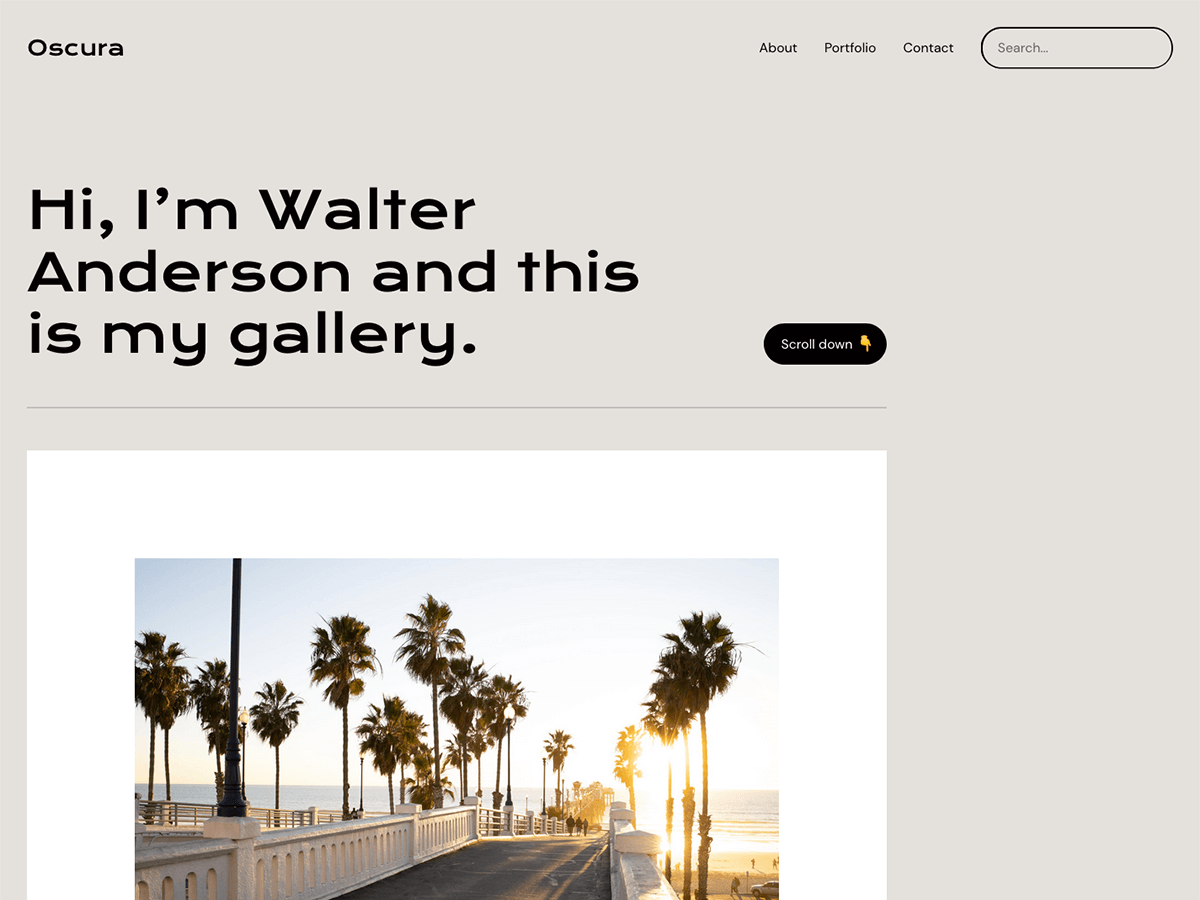
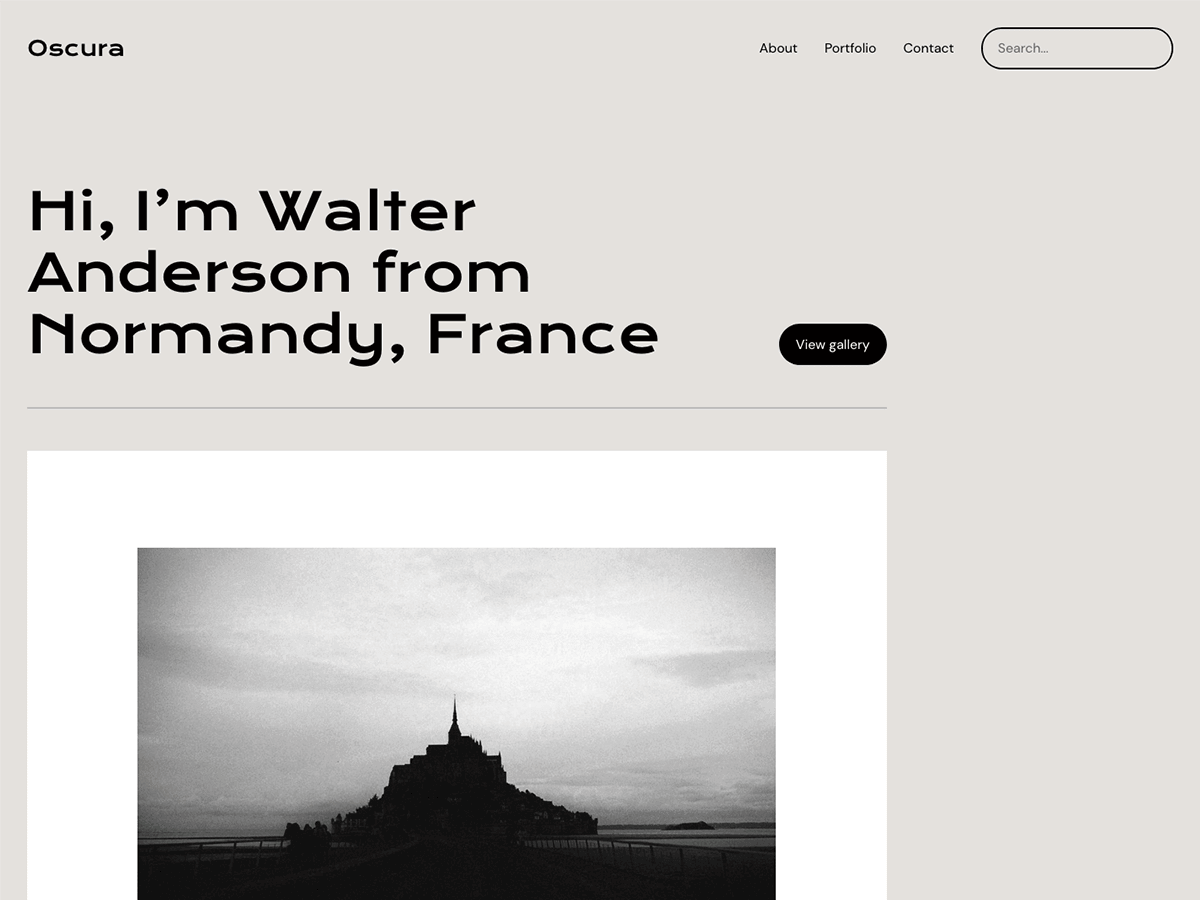
Update screenshot image and some attributions in readme.txt

diff --git a/style.css b/style.css
@@ -2,7 +2,7 @@
 Theme Name: Oscura
 Theme URI: https://github.com/alexandrebuffet/oscura
 Author: Alexandre Buffet
-Author URI: https://www.alexandrebuffet.fr/
+Author URI: https://www.alexandrebuffet.com
 Description: Oscura is an elegant and modern block-based theme especially designed for photographers, artists and all other creatives who want to showcase their work.
 Requires at least: 5.9
 Tested up to: 5.9

diff --git a/README.md b/README.md
@@ -1,10 +1,10 @@
 # Oscura
 
-Oscura is an elegant and modern block-based theme especially designed for photographers, artists and all other creatives who want to showcase their work. See the Oscura theme in action at [themes.alexandrebuffet.fr/oscura](https://themes.alexandrebuffet.fr/oscura).
+Oscura is an elegant and modern block-based theme especially designed for photographers, artists and all other creatives who want to showcase their work. See the Oscura theme in action at [alexandrebuffet.com/oscura](https://alexandrebuffet.com/oscura).
 
-![Oscura for WordPress](https://user-images.githubusercontent.com/43843473/155427126-2cbe9f6d-48b2-45bd-b974-c95f36f59175.jpg)
+![Oscura for WordPress](https://user-images.githubusercontent.com/43843473/157986570-dbc909c8-6316-48ee-8a53-012118562a80.jpg)
 
-![Oscura moodboard](https://user-images.githubusercontent.com/43843473/155427036-d128225b-3412-4a15-8d16-41e5e98e4199.jpg)
+![Oscura moodboard](https://user-images.githubusercontent.com/43843473/157986569-15dec7bc-5a51-472b-b5db-3912465eb401.jpg)
 
 Download the latest stable release: [oscura-1.0.0.zip](https://github.com/alexandrebuffet/oscura/releases/download/v1.0.0/oscura-1.0.0.zip)
 
@@ -38,7 +38,7 @@ Oscura adheres to the [WordPress coding standards](https://developer.wordpress.o
 
 ## Resources
 
-- [Oscura website](https://themes.alexandrebuffet.fr/oscura)
+- [Oscura website](https://alexandrebuffet.com/oscura)
 - [Set up a development environment with Local](https://localwp.com/)
 - [Block Theme documentation](https://developer.wordpress.org/block-editor/how-to-guides/themes/block-theme-overview)
 - [Global Styles & theme.json documentation](https://developer.wordpress.org/block-editor/how-to-guides/themes/theme-json/)
